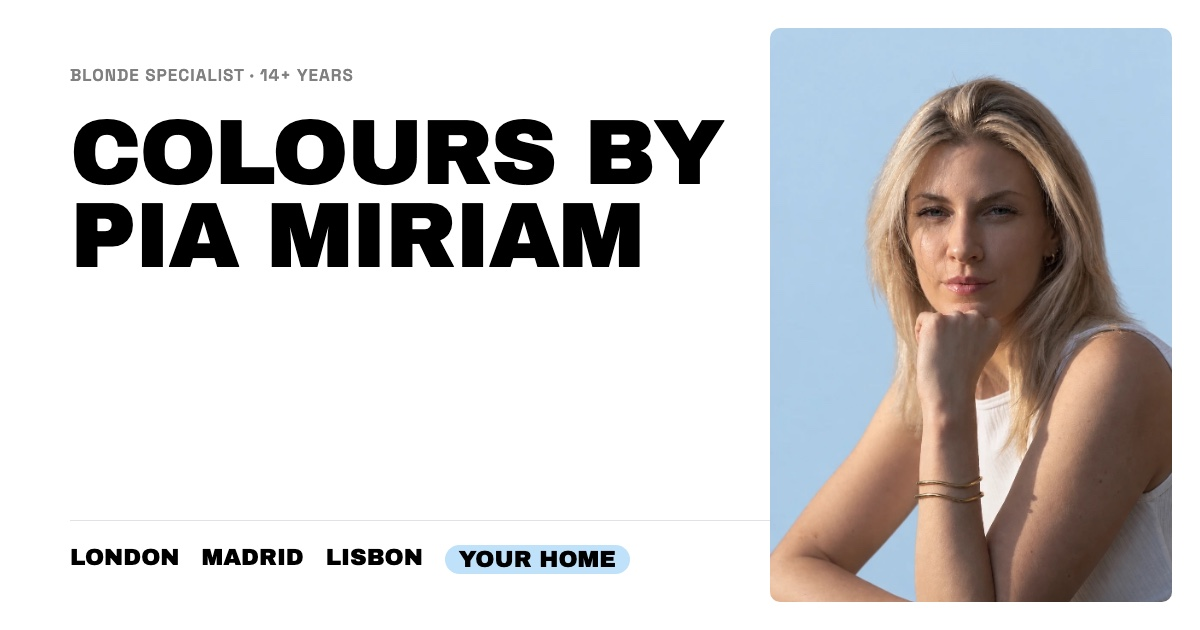
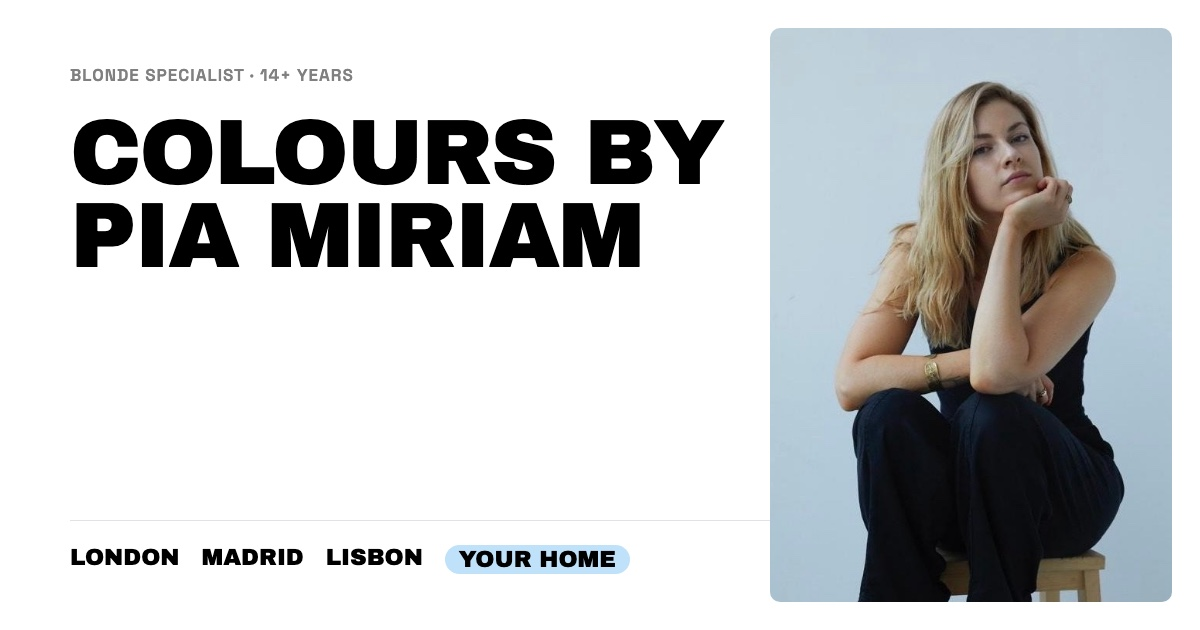
Add files via upload

Changed region(s): [[0.6167, 0.1206, 0.9867, 0.9651]]

diff --git a/pt.html b/pt.html
@@ -98,7 +98,7 @@ header{position:fixed;top:0;left:0;right:0;z-index:40;color:#000;background:rgba
 .about-grid{display:grid;grid-template-columns:.7fr 1.3fr;gap:80px;align-items:center}
 .portrait-wrap{margin:0}.got{font-family:var(--H);text-transform:uppercase;font-size:clamp(18px,1.6vw,24px);margin-top:16px;letter-spacing:-.01em}
 .about .portrait{border-radius:6px;overflow:hidden;aspect-ratio:4/5}
-.about .portrait img{width:100%;height:115%;object-fit:cover;object-position:50% 0%}
+.about .portrait img{width:100%;height:115%;object-fit:cover}
 .about h2{font-size:clamp(28px,3vw,44px);margin-bottom:20px}
 .about .big{font-family:var(--H);text-transform:uppercase;font-size:clamp(15px,1.3vw,18px);line-height:1.2;margin-bottom:18px}
 .about p{margin-bottom:16px;max-width:600px}
@@ -106,7 +106,7 @@ header{position:fixed;top:0;left:0;right:0;z-index:40;color:#000;background:rgba
 /* about page */
 .ab{background:#fff;padding:150px 0 110px}
 .ab-grid{display:grid;grid-template-columns:.8fr 1.2fr;gap:80px;align-items:start}
-.ab-photo{position:sticky;top:100px;border-radius:6px;overflow:hidden;aspect-ratio:4/5}.ab-photo img{width:100%;height:100%;object-fit:cover;object-position:50% 0%}
+.ab-photo{position:sticky;top:100px;border-radius:6px;overflow:hidden;aspect-ratio:4/5}.ab-photo img{width:100%;height:100%;object-fit:cover}
 .ab .lbl{color:var(--grey);margin-bottom:16px}
 .ab h1{font-size:clamp(34px,4.4vw,64px);margin-bottom:28px}
 .ab .lead{font-family:var(--H);text-transform:uppercase;font-size:clamp(16px,1.4vw,20px);line-height:1.2;margin-bottom:30px;max-width:620px}
@@ -396,7 +396,7 @@ footer a{text-decoration:none}
     </div>
   </div></section>
   <section class="about" id="about"><div class="wrap about-grid">
-    <figure class="portrait-wrap"><div class="portrait"><img class="par" src="/pia.jpg" alt="Pia Miriam"></div></figure>
+    <figure class="portrait-wrap"><div class="portrait"><img class="par" src="/foto1.jpg" alt="Pia Miriam"></div></figure>
     <div>
       <h2 class="H rv">Pia Miriam</h2>
       <p class="big rv">Coloração profissional com uma experiência exclusiva e personalizada, num ambiente descontraído, no conforto da sua casa.</p>

diff --git a/index.html b/index.html
@@ -98,7 +98,7 @@ header{position:fixed;top:0;left:0;right:0;z-index:40;color:#000;background:rgba
 .about-grid{display:grid;grid-template-columns:.7fr 1.3fr;gap:80px;align-items:center}
 .portrait-wrap{margin:0}.got{font-family:var(--H);text-transform:uppercase;font-size:clamp(18px,1.6vw,24px);margin-top:16px;letter-spacing:-.01em}
 .about .portrait{border-radius:6px;overflow:hidden;aspect-ratio:4/5}
-.about .portrait img{width:100%;height:115%;object-fit:cover;object-position:50% 0%}
+.about .portrait img{width:100%;height:115%;object-fit:cover}
 .about h2{font-size:clamp(28px,3vw,44px);margin-bottom:20px}
 .about .big{font-family:var(--H);text-transform:uppercase;font-size:clamp(15px,1.3vw,18px);line-height:1.2;margin-bottom:18px}
 .about p{margin-bottom:16px;max-width:600px}
@@ -106,7 +106,7 @@ header{position:fixed;top:0;left:0;right:0;z-index:40;color:#000;background:rgba
 /* about page */
 .ab{background:#fff;padding:150px 0 110px}
 .ab-grid{display:grid;grid-template-columns:.8fr 1.2fr;gap:80px;align-items:start}
-.ab-photo{position:sticky;top:100px;border-radius:6px;overflow:hidden;aspect-ratio:4/5}.ab-photo img{width:100%;height:100%;object-fit:cover;object-position:50% 0%}
+.ab-photo{position:sticky;top:100px;border-radius:6px;overflow:hidden;aspect-ratio:4/5}.ab-photo img{width:100%;height:100%;object-fit:cover}
 .ab .lbl{color:var(--grey);margin-bottom:16px}
 .ab h1{font-size:clamp(34px,4.4vw,64px);margin-bottom:28px}
 .ab .lead{font-family:var(--H);text-transform:uppercase;font-size:clamp(16px,1.4vw,20px);line-height:1.2;margin-bottom:30px;max-width:620px}
@@ -396,7 +396,7 @@ footer a{text-decoration:none}
     </div>
   </div></section>
   <section class="about" id="about"><div class="wrap about-grid">
-    <figure class="portrait-wrap"><div class="portrait"><img class="par" src="/pia.jpg" alt="Pia Miriam"></div></figure>
+    <figure class="portrait-wrap"><div class="portrait"><img class="par" src="/foto1.jpg" alt="Pia Miriam"></div></figure>
     <div>
       <h2 class="H rv">Pia Miriam</h2>
       <p class="big rv">Professional-grade hair colouring with exclusive one-on-one experience, and a relaxed vibe in the comfort of your own home.</p>

diff --git a/es.html b/es.html
@@ -98,7 +98,7 @@ header{position:fixed;top:0;left:0;right:0;z-index:40;color:#000;background:rgba
 .about-grid{display:grid;grid-template-columns:.7fr 1.3fr;gap:80px;align-items:center}
 .portrait-wrap{margin:0}.got{font-family:var(--H);text-transform:uppercase;font-size:clamp(18px,1.6vw,24px);margin-top:16px;letter-spacing:-.01em}
 .about .portrait{border-radius:6px;overflow:hidden;aspect-ratio:4/5}
-.about .portrait img{width:100%;height:115%;object-fit:cover;object-position:50% 0%}
+.about .portrait img{width:100%;height:115%;object-fit:cover}
 .about h2{font-size:clamp(28px,3vw,44px);margin-bottom:20px}
 .about .big{font-family:var(--H);text-transform:uppercase;font-size:clamp(15px,1.3vw,18px);line-height:1.2;margin-bottom:18px}
 .about p{margin-bottom:16px;max-width:600px}
@@ -106,7 +106,7 @@ header{position:fixed;top:0;left:0;right:0;z-index:40;color:#000;background:rgba
 /* about page */
 .ab{background:#fff;padding:150px 0 110px}
 .ab-grid{display:grid;grid-template-columns:.8fr 1.2fr;gap:80px;align-items:start}
-.ab-photo{position:sticky;top:100px;border-radius:6px;overflow:hidden;aspect-ratio:4/5}.ab-photo img{width:100%;height:100%;object-fit:cover;object-position:50% 0%}
+.ab-photo{position:sticky;top:100px;border-radius:6px;overflow:hidden;aspect-ratio:4/5}.ab-photo img{width:100%;height:100%;object-fit:cover}
 .ab .lbl{color:var(--grey);margin-bottom:16px}
 .ab h1{font-size:clamp(34px,4.4vw,64px);margin-bottom:28px}
 .ab .lead{font-family:var(--H);text-transform:uppercase;font-size:clamp(16px,1.4vw,20px);line-height:1.2;margin-bottom:30px;max-width:620px}
@@ -396,7 +396,7 @@ footer a{text-decoration:none}
     </div>
   </div></section>
   <section class="about" id="about"><div class="wrap about-grid">
-    <figure class="portrait-wrap"><div class="portrait"><img class="par" src="/pia.jpg" alt="Pia Miriam"></div></figure>
+    <figure class="portrait-wrap"><div class="portrait"><img class="par" src="/foto1.jpg" alt="Pia Miriam"></div></figure>
     <div>
       <h2 class="H rv">Pia Miriam</h2>
       <p class="big rv">Coloración profesional con una experiencia exclusiva uno a uno y un ambiente relajado en la comodidad de tu casa.</p>

diff --git a/pt-about.html b/pt-about.html
@@ -98,7 +98,7 @@ header{position:fixed;top:0;left:0;right:0;z-index:40;color:#000;background:rgba
 .about-grid{display:grid;grid-template-columns:.7fr 1.3fr;gap:80px;align-items:center}
 .portrait-wrap{margin:0}.got{font-family:var(--H);text-transform:uppercase;font-size:clamp(18px,1.6vw,24px);margin-top:16px;letter-spacing:-.01em}
 .about .portrait{border-radius:6px;overflow:hidden;aspect-ratio:4/5}
-.about .portrait img{width:100%;height:115%;object-fit:cover;object-position:50% 0%}
+.about .portrait img{width:100%;height:115%;object-fit:cover}
 .about h2{font-size:clamp(28px,3vw,44px);margin-bottom:20px}
 .about .big{font-family:var(--H);text-transform:uppercase;font-size:clamp(15px,1.3vw,18px);line-height:1.2;margin-bottom:18px}
 .about p{margin-bottom:16px;max-width:600px}
@@ -106,7 +106,7 @@ header{position:fixed;top:0;left:0;right:0;z-index:40;color:#000;background:rgba
 /* about page */
 .ab{background:#fff;padding:150px 0 110px}
 .ab-grid{display:grid;grid-template-columns:.8fr 1.2fr;gap:80px;align-items:start}
-.ab-photo{position:sticky;top:100px;border-radius:6px;overflow:hidden;aspect-ratio:4/5}.ab-photo img{width:100%;height:100%;object-fit:cover;object-position:50% 0%}
+.ab-photo{position:sticky;top:100px;border-radius:6px;overflow:hidden;aspect-ratio:4/5}.ab-photo img{width:100%;height:100%;object-fit:cover}
 .ab .lbl{color:var(--grey);margin-bottom:16px}
 .ab h1{font-size:clamp(34px,4.4vw,64px);margin-bottom:28px}
 .ab .lead{font-family:var(--H);text-transform:uppercase;font-size:clamp(16px,1.4vw,20px);line-height:1.2;margin-bottom:30px;max-width:620px}
@@ -342,7 +342,7 @@ footer a{text-decoration:none}
 
 <main id="top">
   <section class="ab"><div class="wrap ab-grid">
-    <div class="ab-photo"><img src="/pia.jpg" alt="Pia Miriam"></div>
+    <div class="ab-photo"><img src="/foto1.jpg" alt="Pia Miriam"></div>
     <div>
       <div class="lbl">Especialista em louros com mais de 14 anos de experiência.</div>
       <h1 class="H">Sobre a Pia Miriam</h1>

diff --git a/es-about.html b/es-about.html
@@ -98,7 +98,7 @@ header{position:fixed;top:0;left:0;right:0;z-index:40;color:#000;background:rgba
 .about-grid{display:grid;grid-template-columns:.7fr 1.3fr;gap:80px;align-items:center}
 .portrait-wrap{margin:0}.got{font-family:var(--H);text-transform:uppercase;font-size:clamp(18px,1.6vw,24px);margin-top:16px;letter-spacing:-.01em}
 .about .portrait{border-radius:6px;overflow:hidden;aspect-ratio:4/5}
-.about .portrait img{width:100%;height:115%;object-fit:cover;object-position:50% 0%}
+.about .portrait img{width:100%;height:115%;object-fit:cover}
 .about h2{font-size:clamp(28px,3vw,44px);margin-bottom:20px}
 .about .big{font-family:var(--H);text-transform:uppercase;font-size:clamp(15px,1.3vw,18px);line-height:1.2;margin-bottom:18px}
 .about p{margin-bottom:16px;max-width:600px}
@@ -106,7 +106,7 @@ header{position:fixed;top:0;left:0;right:0;z-index:40;color:#000;background:rgba
 /* about page */
 .ab{background:#fff;padding:150px 0 110px}
 .ab-grid{display:grid;grid-template-columns:.8fr 1.2fr;gap:80px;align-items:start}
-.ab-photo{position:sticky;top:100px;border-radius:6px;overflow:hidden;aspect-ratio:4/5}.ab-photo img{width:100%;height:100%;object-fit:cover;object-position:50% 0%}
+.ab-photo{position:sticky;top:100px;border-radius:6px;overflow:hidden;aspect-ratio:4/5}.ab-photo img{width:100%;height:100%;object-fit:cover}
 .ab .lbl{color:var(--grey);margin-bottom:16px}
 .ab h1{font-size:clamp(34px,4.4vw,64px);margin-bottom:28px}
 .ab .lead{font-family:var(--H);text-transform:uppercase;font-size:clamp(16px,1.4vw,20px);line-height:1.2;margin-bottom:30px;max-width:620px}
@@ -342,7 +342,7 @@ footer a{text-decoration:none}
 
 <main id="top">
   <section class="ab"><div class="wrap ab-grid">
-    <div class="ab-photo"><img src="/pia.jpg" alt="Pia Miriam"></div>
+    <div class="ab-photo"><img src="/foto1.jpg" alt="Pia Miriam"></div>
     <div>
       <div class="lbl">Especialista en rubios con más de 14 años de experiencia.</div>
       <h1 class="H">Sobre Pia Miriam</h1>

diff --git a/about.html b/about.html
@@ -98,7 +98,7 @@ header{position:fixed;top:0;left:0;right:0;z-index:40;color:#000;background:rgba
 .about-grid{display:grid;grid-template-columns:.7fr 1.3fr;gap:80px;align-items:center}
 .portrait-wrap{margin:0}.got{font-family:var(--H);text-transform:uppercase;font-size:clamp(18px,1.6vw,24px);margin-top:16px;letter-spacing:-.01em}
 .about .portrait{border-radius:6px;overflow:hidden;aspect-ratio:4/5}
-.about .portrait img{width:100%;height:115%;object-fit:cover;object-position:50% 0%}
+.about .portrait img{width:100%;height:115%;object-fit:cover}
 .about h2{font-size:clamp(28px,3vw,44px);margin-bottom:20px}
 .about .big{font-family:var(--H);text-transform:uppercase;font-size:clamp(15px,1.3vw,18px);line-height:1.2;margin-bottom:18px}
 .about p{margin-bottom:16px;max-width:600px}
@@ -106,7 +106,7 @@ header{position:fixed;top:0;left:0;right:0;z-index:40;color:#000;background:rgba
 /* about page */
 .ab{background:#fff;padding:150px 0 110px}
 .ab-grid{display:grid;grid-template-columns:.8fr 1.2fr;gap:80px;align-items:start}
-.ab-photo{position:sticky;top:100px;border-radius:6px;overflow:hidden;aspect-ratio:4/5}.ab-photo img{width:100%;height:100%;object-fit:cover;object-position:50% 0%}
+.ab-photo{position:sticky;top:100px;border-radius:6px;overflow:hidden;aspect-ratio:4/5}.ab-photo img{width:100%;height:100%;object-fit:cover}
 .ab .lbl{color:var(--grey);margin-bottom:16px}
 .ab h1{font-size:clamp(34px,4.4vw,64px);margin-bottom:28px}
 .ab .lead{font-family:var(--H);text-transform:uppercase;font-size:clamp(16px,1.4vw,20px);line-height:1.2;margin-bottom:30px;max-width:620px}
@@ -342,7 +342,7 @@ footer a{text-decoration:none}
 
 <main id="top">
   <section class="ab"><div class="wrap ab-grid">
-    <div class="ab-photo"><img src="/pia.jpg" alt="Pia Miriam"></div>
+    <div class="ab-photo"><img src="/foto1.jpg" alt="Pia Miriam"></div>
     <div>
       <div class="lbl">Blonde specialist with over 14 years of experience.</div>
       <h1 class="H">About Pia Miriam</h1>
